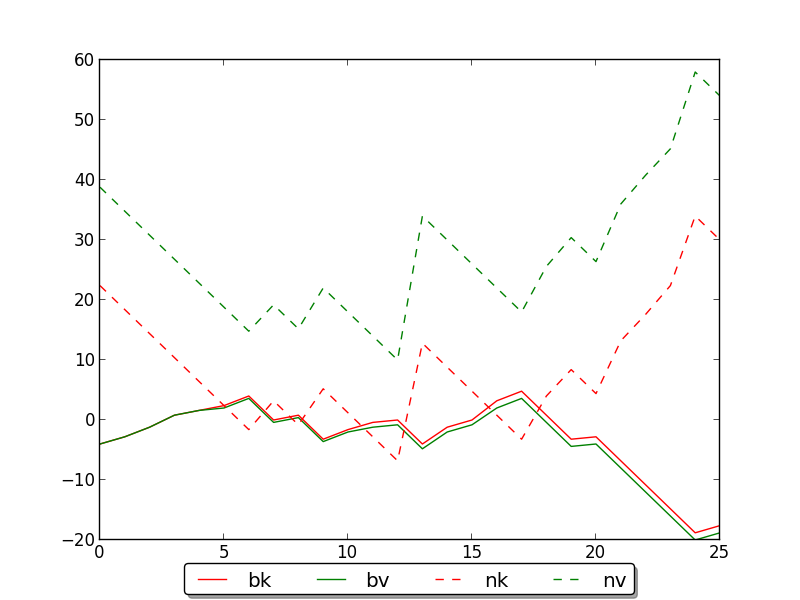
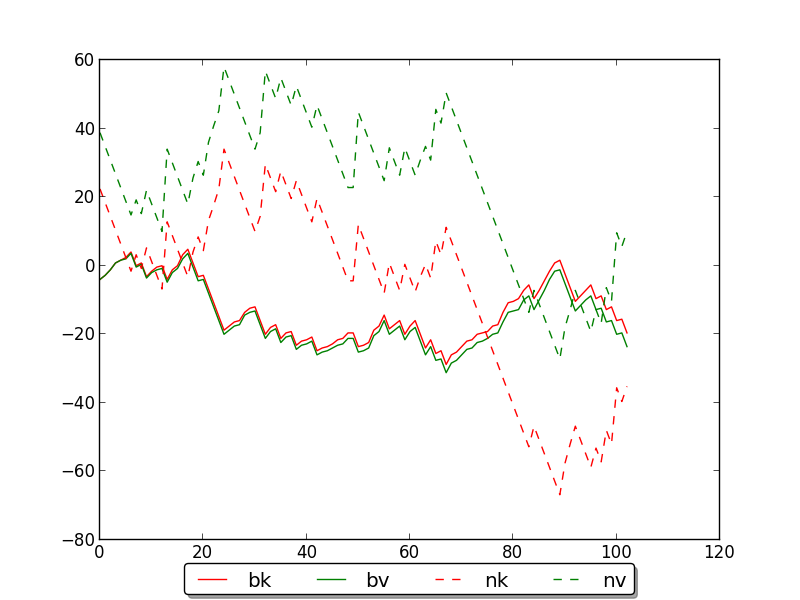
bo2fan fixed

diff --git a/testfolder/bo1fan.py b/testfolder/bo1fan.py
@@ -9,12 +9,11 @@ bo1win=0
 def team_ana(str_list):
     strt=str_list.split('\n')
     print strt[0]
-    br=0.0
-    bu=0.0
-    bc=0.0
-    nr=0.0
-    nu=0.0
-    nc=0.0
+    bk=0.0
+    bv=0.0
+    nk=0.0
+    nv=0.0
+
     idx=0
     buf=0
     with open("data-good-new") as f:
@@ -37,65 +36,37 @@ def team_ana(str_list):
             continue
         odds=var[8].split()
         if(len(odds)<7):
-            lr=float(odds[0])
-            lu=float(odds[1])
-            lc=float(odds[2])
-            rr=float(odds[5])
-            ru=float(odds[4])
-            rc=float(odds[3])
-        else:
-            lr=float(odds[1])
-            lu=float(odds[2])
-            lc=float(odds[3])
-            rr=float(odds[6])
-            ru=float(odds[5])
-            rc=float(odds[4])
-
-
-        if (var[1]==strt[0] and var[5]=="1"):
-            #br+=int(var[8+idx])
-            #bu+=int(var[9+idx])
-            #bc+=int(intvar[10+idx])
-            br+=lr
-            bu+=lu
-            bc+=lc
-            nr-=4
-            nu-=4
-            nc-=4
-        elif(var[1]==strt[0] and var[5]=="2"):
-            #br+=int(var[13-idx])
-            #bu+=int(var[12-idx])
-            #bc+=int(var[11-idx])
-            br+=rr
-            bu+=ru
-            bc+=rc
-            nr-=4
-            nu-=4
-            nc-=4
-        elif(var[2]==strt[0] and var[5]=="1"):
-            br-=4
-            bu-=4
-            bc-=4
-            nr+=lr
-            nu+=lu
-            nc+=lc
-            #nr+=int(var[8+idx])
-            #nu+=int(var[9+idx])
+            lk=float(odds[0])
+            lv=float(odds[1])
+            rk=float(odds[3])
+            rv=float(odds[2])
+        if (int(var[6])>50 and var[5]=="1"):
+            bk+=4*lk
+            bv+=4*lv
+            nk-=4
+            nv-=4
+        elif (int(var[6])<50 and var[5]=="2"):
+            bk+=4*rk
+            bv+=4*rv
+            nk-=4
+            nv-=4
+        elif (int(var[6])<50 and var[5]=="1"):
+            bk-=4
+            bv-=4
+            nk+=4*lk
+            nv+=4*lv
+            #nk+=int(var[8+idx])
+            #nv+=int(var[9+idx])
             #nc+=int(var[10+idx])
 
-        elif(var[2]==strt[0] and var[5]=="2"):
-            br-=4
-            bu-=4
-            bc-=4
-            nr+=rr
-            nu+=ru
-            nc+=rc
-            #nr+=int(var[13-idx])
-            #nu+=int(var[12-idx])
-            #nc+=int(var[11-idx])
-            #print var[0],br,bu,bc,nr,nu,nc
+        elif (int(var[6])>50 and var[5]=="2"):
+            bk-=4
+            bv-=4
+            nk+=4*rk
+            nv+=4*rv
+
         team_f=open("bo1_"+strt[0],'a')
-        team_f.write(str(buf)+" "+var[0]+" "+str(br)+" "+str(bu)+" "+str(bc)+" "+str(nr)+" "+str(nu)+" "+str(nc)+'\n')
+        team_f.write(var[0]+" "+var[1]+" "+str(bk)+" "+str(bv)+" "+str(nk)+" "+str(nv)+'\n')
         buf+=1
         bo1win+=1
 
@@ -109,21 +80,17 @@ while (team_idx<len(team_list)):
     team_ana(team_list[team_idx])
     team_name=team_list[team_idx].split('\n')
     if bo1win>0:
-        team_draw=np.genfromtxt('./bo1_'+team_name[0],delimiter=' ',names=['foo','bar','br','bu','bc','nr','nu','nc'])
+        team_draw=np.genfromtxt('./bo1_'+team_name[0],delimiter=' ',names=['foo','bar','bk','bv','nk','nv'])
 
-#    print(team_draw['bu'])
 # Create the plot
-        plt.plot(team_draw['br'],label='br',color='r')
-        plt.plot(team_draw['bu'],label='bu',color='g')
-        plt.plot(team_draw['bc'],label='bc',color='b')
-        plt.plot(team_draw['nr'],label='nr',color='r',linestyle="dashed")
-        plt.plot(team_draw['nu'],label='nu',color='g',linestyle="dashed")
-        plt.plot(team_draw['nc'],label='nc',color='b',linestyle="dashed")
+        plt.plot(team_draw['bk'],label='bk',color='r')
+        plt.plot(team_draw['bv'],label='bv',color='g')
+        plt.plot(team_draw['nk'],label='nk',color='r',linestyle="dashed")
+        plt.plot(team_draw['nv'],label='nv',color='g',linestyle="dashed")
         plt.legend(
-            loc='upper center', bbox_to_anchor=(0.5, -0.03),
+                loc='upper center', bbox_to_anchor=(0.5, -0.03),
                       fancybox=True, shadow=True, ncol=6
-            )
-
+                )
 
 # Save the figure in a separate file
         plt.savefig('bo1_'+team_name[0]+'.png')

diff --git a/testfolder/bo1favor.py b/testfolder/bo1favor.py
@@ -4,6 +4,7 @@ import numpy as np
 import matplotlib.pyplot as plt
 import re
 
+bo1win=0
 def team_ana():
     bk=0.0
     bv=0.0
